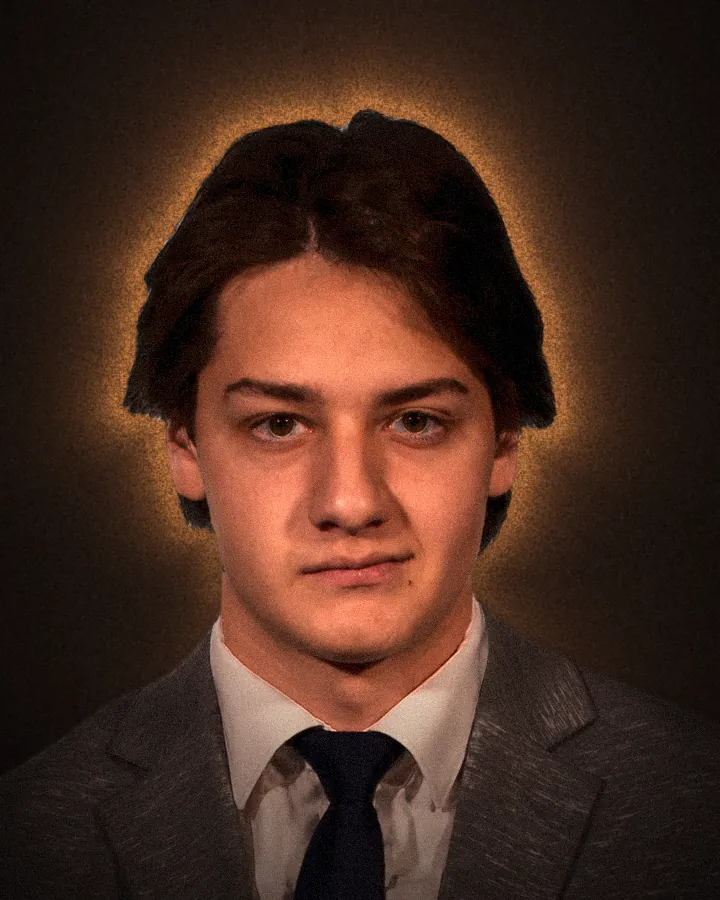
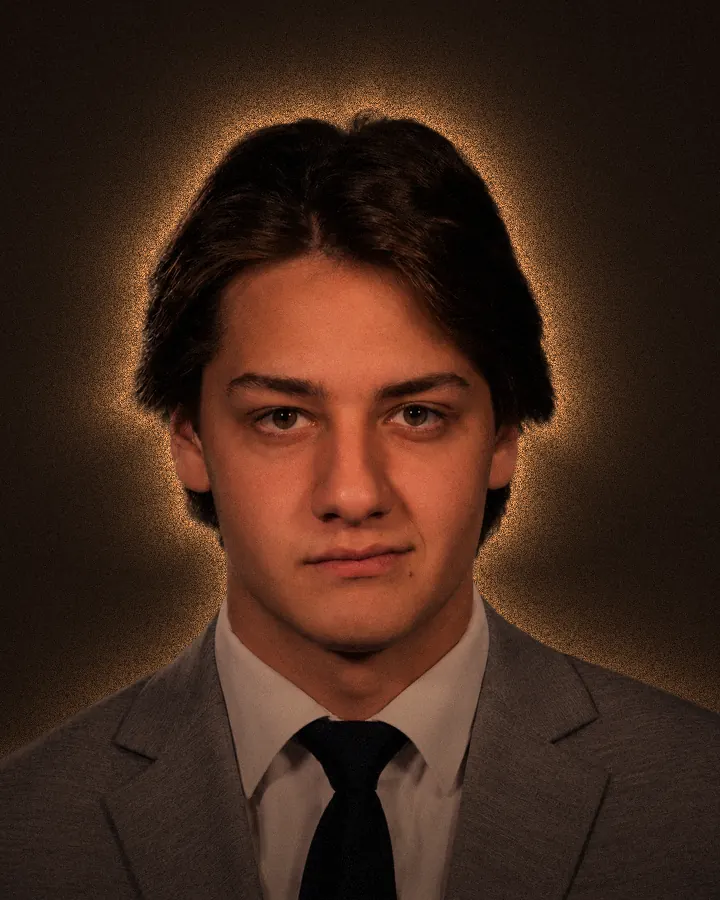
New portrait of Dalel in the About section

diff --git a/index.html b/index.html
@@ -359,7 +359,7 @@
         </figure>
         <figure class="founder">
           <div class="founder-photo">
-            <img src="img/people/dalel-savarin-glow.webp" width="720" height="900" alt="Dalel Savarin, portrait lit from behind with a warm glow" loading="lazy" decoding="async">
+            <img src="img/people/dalel-savarin-glow.webp?v=2" width="720" height="900" alt="Dalel Savarin, portrait lit from behind with a warm glow" loading="lazy" decoding="async">
           </div>
           <figcaption><span class="founder-name">Dalel Savarin</span><span class="founder-role">Co-Founder &amp; Executive Producer</span></figcaption>
         </figure>
